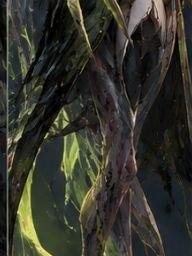
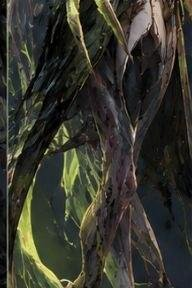
fix: char images 192x288 (2:3), artwork contain, viewport-top flex fill

diff --git a/docs/index.html b/docs/index.html
@@ -61,8 +61,8 @@ button{font-family:inherit;cursor:pointer;border:none;outline:none;background:no
 /* ========== VIEWPORT ========== */
 .viewport{flex:1;display:flex;align-items:stretch;justify-content:center;background:#06060f;overflow:hidden}
 .viewport-inner{display:flex;flex-direction:column;aspect-ratio:16/9;max-width:min(100%, calc(100vh - 60px) * 16 / 9);max-height:100%;overflow:hidden;background:var(--bg);border-left:1px solid var(--bdr);border-right:1px solid var(--bdr)}
-.viewport-top{position:relative;aspect-ratio:16/9;width:100%;overflow:hidden;background:rgba(10,10,24,.7)}
-.artwork{position:absolute;top:0;left:0;right:0;bottom:0;background-size:cover;background-repeat:no-repeat;background-position:center;z-index:1}
+.viewport-top{position:relative;flex:1;min-height:0;background:rgba(10,10,24,.7)}
+.artwork{position:absolute;top:0;left:0;right:0;bottom:0;background-size:contain;background-repeat:no-repeat;background-position:center;z-index:1}
 .nameplate{position:absolute;bottom:0;left:0;right:0;padding:16px;background:linear-gradient(0deg,rgba(0,0,0,.95) 0%,transparent 100%);z-index:2}
 .char-name{font-size:1.8rem;font-weight:800;color:#fff}
 .char-sub{display:flex;align-items:center;gap:8px;margin-top:4px;font-size:.75rem}

diff --git a/web-demo/index.html b/web-demo/index.html
@@ -61,8 +61,8 @@ button{font-family:inherit;cursor:pointer;border:none;outline:none;background:no
 /* ========== VIEWPORT ========== */
 .viewport{flex:1;display:flex;align-items:stretch;justify-content:center;background:#06060f;overflow:hidden}
 .viewport-inner{display:flex;flex-direction:column;aspect-ratio:16/9;max-width:min(100%, calc(100vh - 60px) * 16 / 9);max-height:100%;overflow:hidden;background:var(--bg);border-left:1px solid var(--bdr);border-right:1px solid var(--bdr)}
-.viewport-top{position:relative;aspect-ratio:16/9;width:100%;overflow:hidden;background:rgba(10,10,24,.7)}
-.artwork{position:absolute;top:0;left:0;right:0;bottom:0;background-size:cover;background-repeat:no-repeat;background-position:center;z-index:1}
+.viewport-top{position:relative;flex:1;min-height:0;background:rgba(10,10,24,.7)}
+.artwork{position:absolute;top:0;left:0;right:0;bottom:0;background-size:contain;background-repeat:no-repeat;background-position:center;z-index:1}
 .nameplate{position:absolute;bottom:0;left:0;right:0;padding:16px;background:linear-gradient(0deg,rgba(0,0,0,.95) 0%,transparent 100%);z-index:2}
 .char-name{font-size:1.8rem;font-weight:800;color:#fff}
 .char-sub{display:flex;align-items:center;gap:8px;margin-top:4px;font-size:.75rem}
